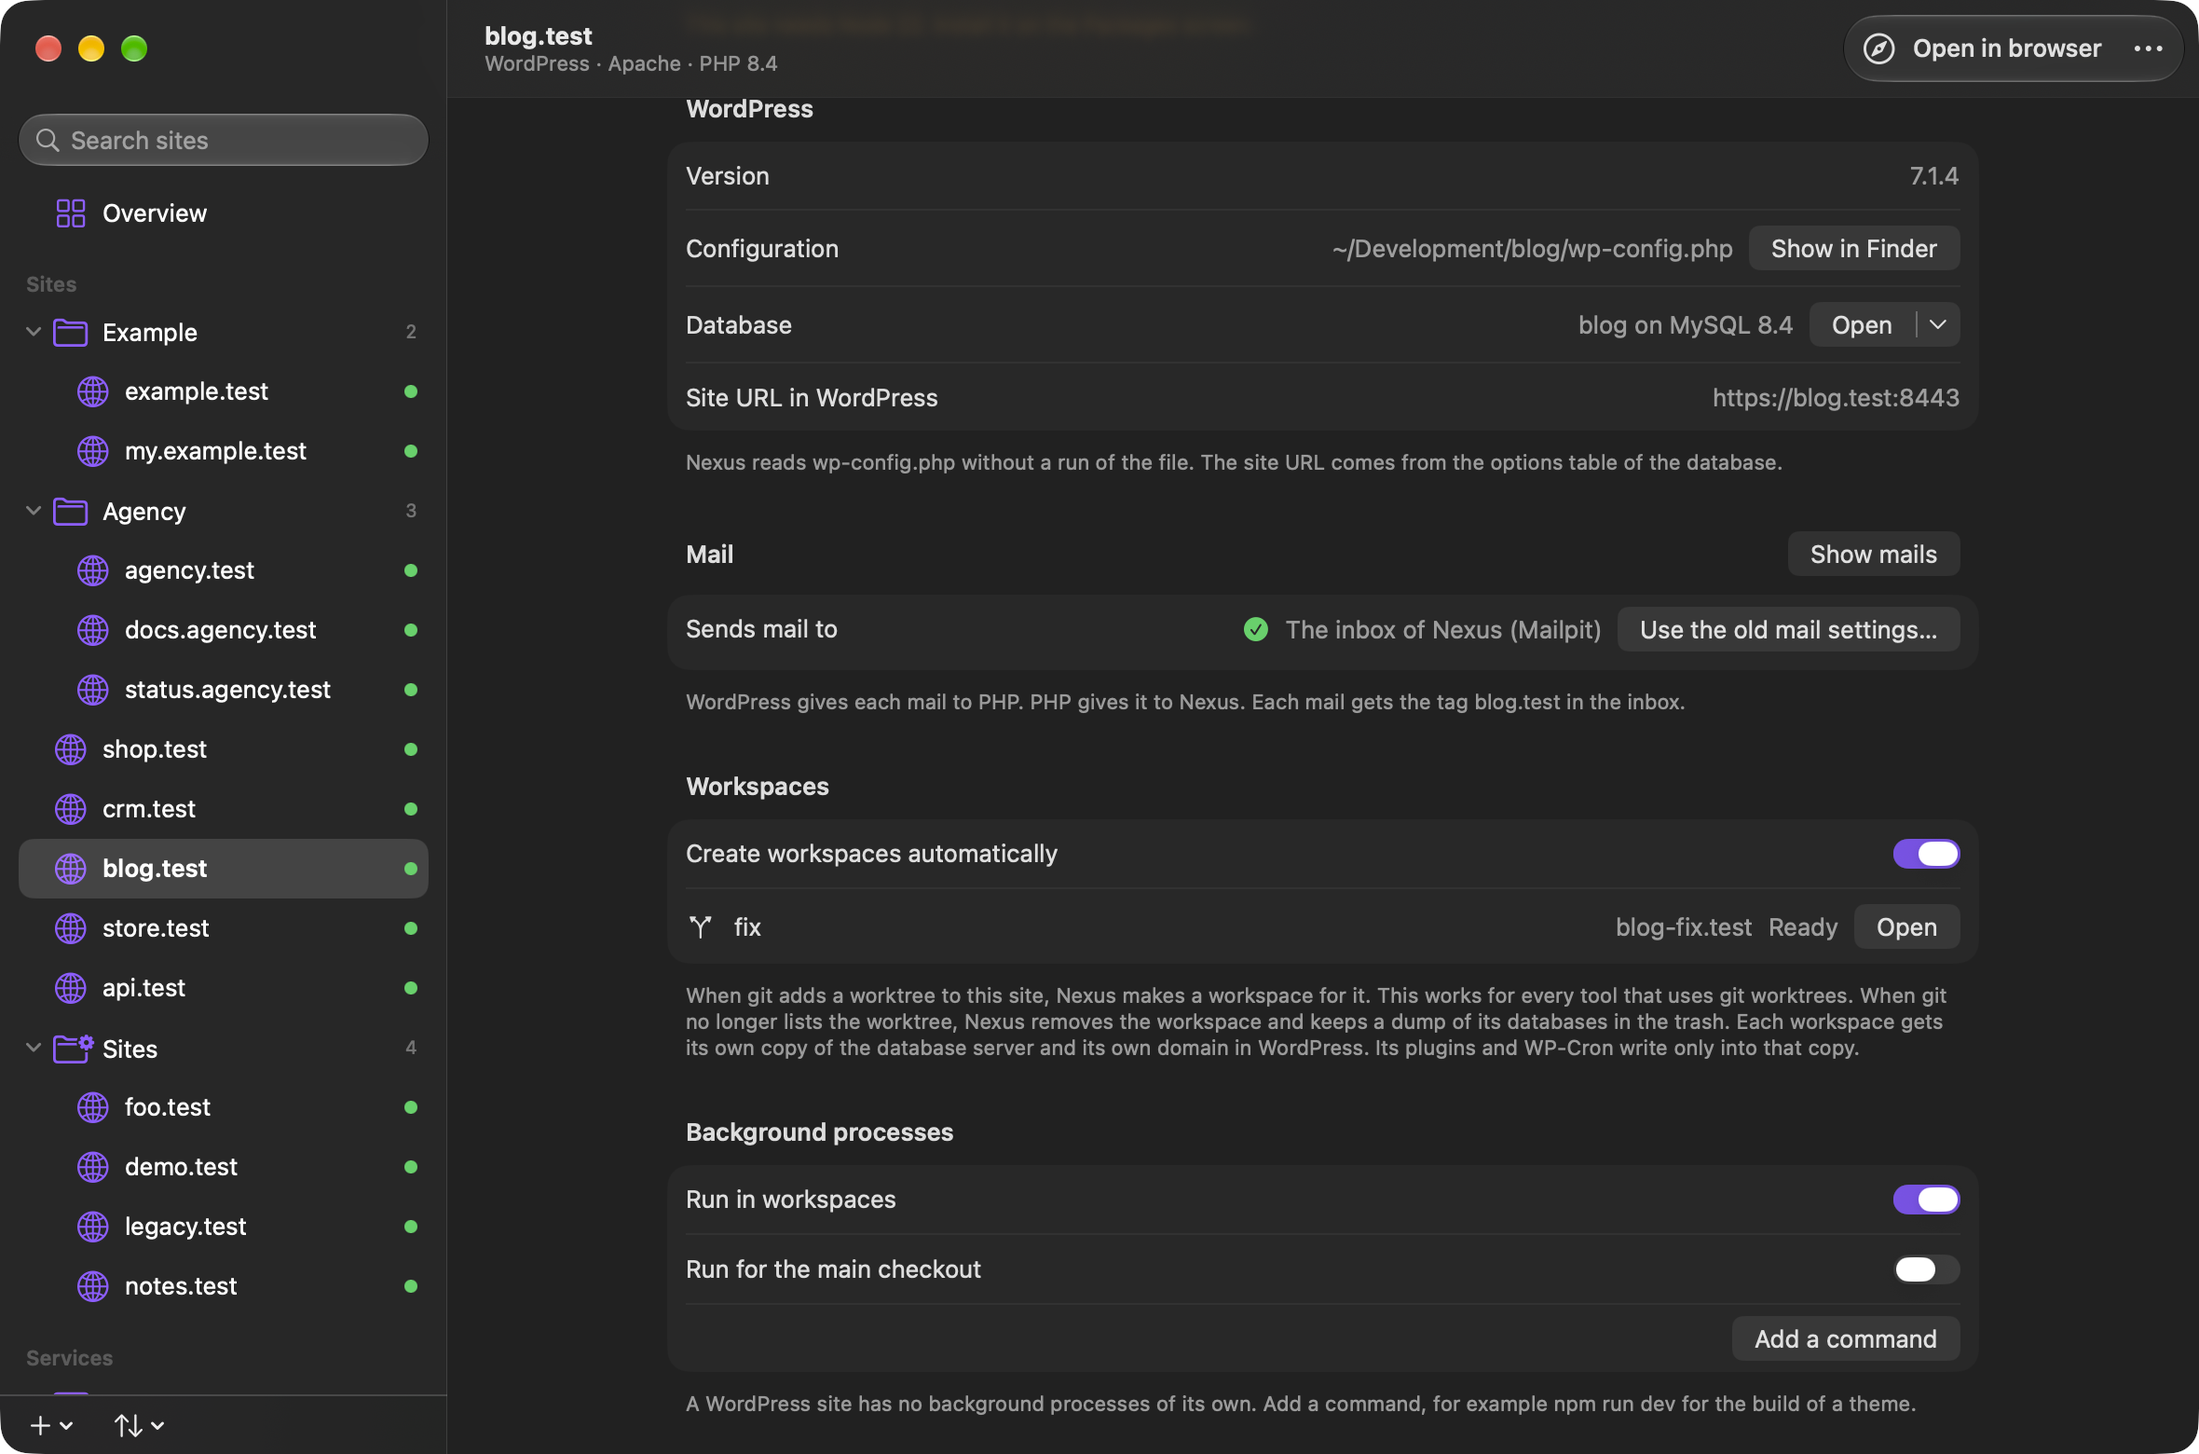
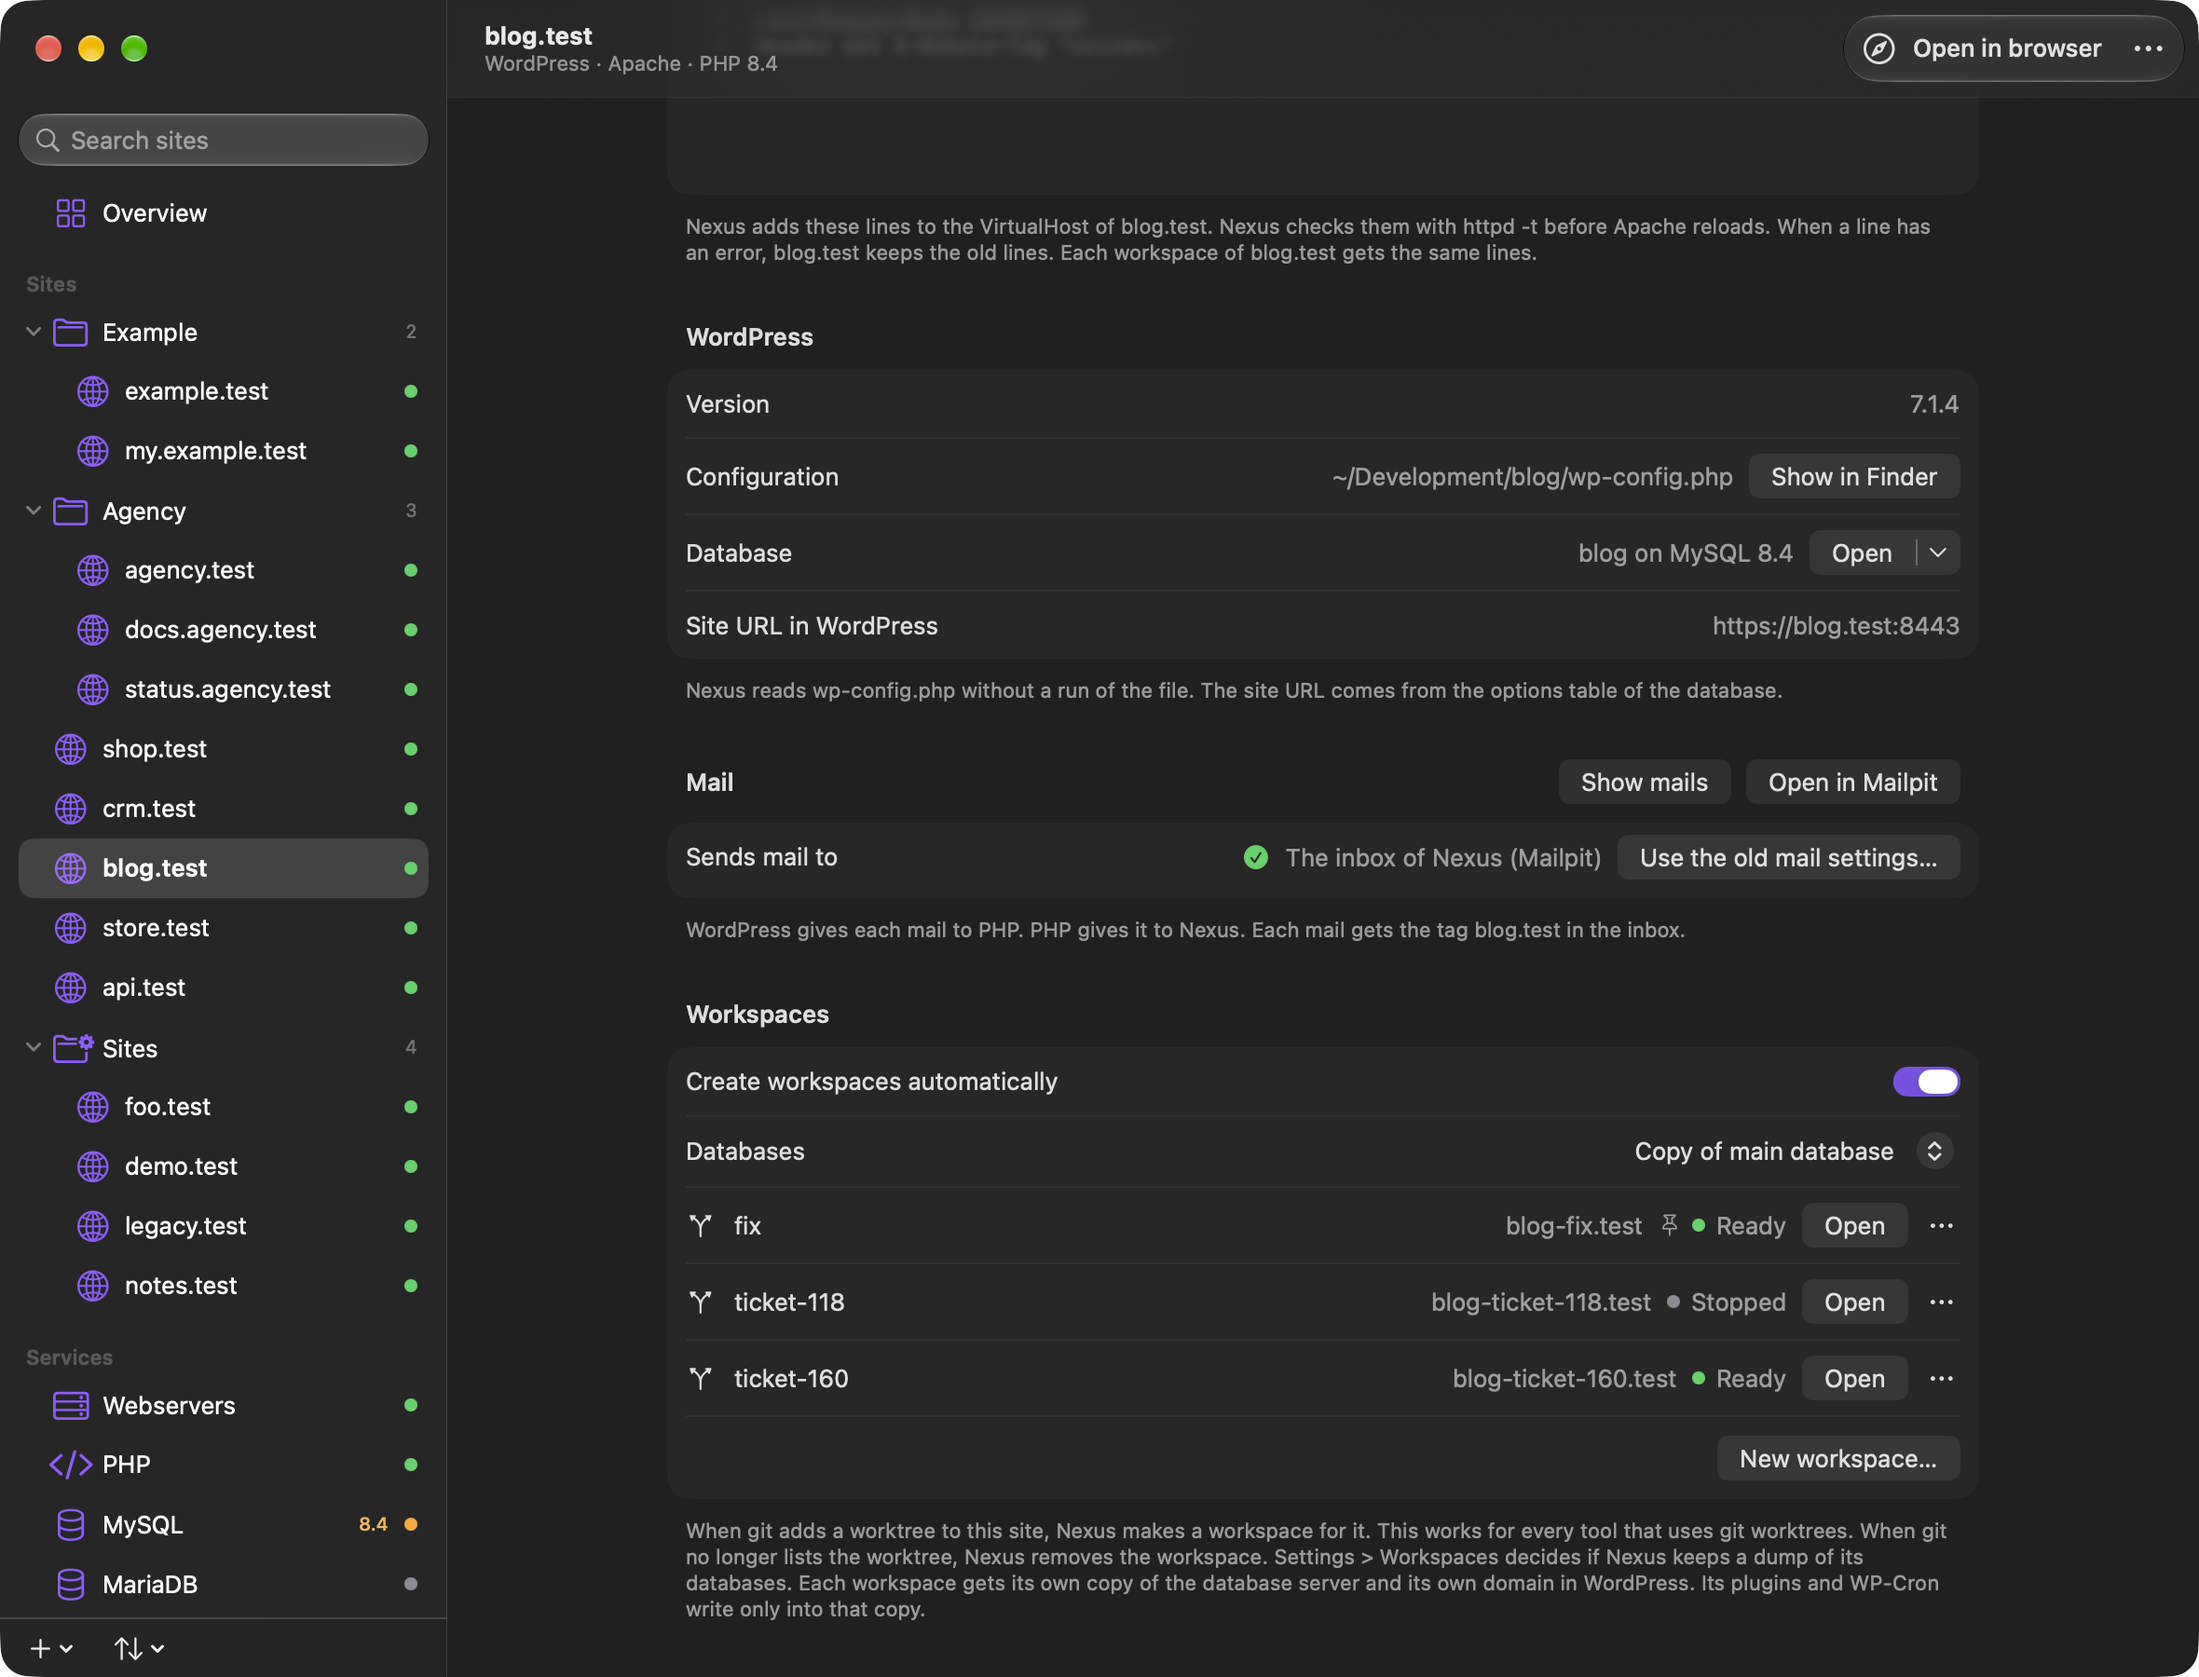
Replace the README screenshots that changed since 0.6.2
The Overview, the Site screen with its workspaces, the New site sheet and
the Packages screen get new 2x screenshots of the sample build. The Mail
screen did not change.

The sample port problem of MySQL 8.4 is now a Homebrew mysqld. It goes
through the same PortConflict path as a real conflict from nexusd, so its
text and its buttons follow the real rules. PortOwner gets a public init
for this. In sample mode a stop of a port holder only shows the start, as
the other sample actions do, and never sends a signal to a real process.

diff --git a/Nexus/Model/SampleData.swift b/Nexus/Model/SampleData.swift
@@ -660,20 +660,13 @@ extension AppModel {
                 version: "8.4.7",
                 health: .attention,
                 ports: [ServicePort(name: "Port", number: 3306)],
-                problem: ServiceProblem(
-                    summary: "Port in use",
-                    detail: "Port 3306 is in use by MAMP PRO (mysqld, process 812). Stop that app, or give the service another port.",
-                    portHolder: PortHolder(
-                        port: 3306,
-                        app: "MAMP PRO",
-                        process: "mysqld",
-                        processNumber: 812,
-                        path: "/Applications/MAMP/Library/bin/mysql80/bin/mysqld",
-                        suggestedPort: 13307,
-                        managerApp: "de.appsolute.mamppro",
-                        canStop: false
-                    )
-                ),
+                problem: ServiceProblem(PortConflict(
+                    service: "mysql-8.4",
+                    port: 3306,
+                    owner: PortOwner(pid: 812, command: "mysqld", executable: "/opt/homebrew/Cellar/mysql@8.4/8.4.7/bin/mysqld", mainPID: 812, mainProcessIsOwn: true),
+                    suggestedPort: 13307,
+                    portKey: "mysql-8.4"
+                )),
                 dataFolder: "~/Library/Application Support/Nexus/data/mysql-8.4",
                 account: DatabaseAccount(user: "root", password: ""),
                 log: [

diff --git a/Nexus/Model/ServiceInfo+App.swift b/Nexus/Model/ServiceInfo+App.swift
@@ -28,6 +28,12 @@ extension ServiceKind {
     }
 }
 
+extension ServiceProblem {
+    init(_ conflict: PortConflict) {
+        self.init(summary: "Port in use", detail: conflict.description, portHolder: PortHolder(conflict))
+    }
+}
+
 extension PortHolder {
     // nexusd cannot see a program of another user. So it has no owner then.
     init(_ conflict: PortConflict) {
@@ -101,7 +107,7 @@ extension ServiceVersion {
         case .stopped:
             if let conflict = info.portConflict {
                 health = .attention
-                problem = ServiceProblem(summary: "Port in use", detail: conflict.description, portHolder: PortHolder(conflict))
+                problem = ServiceProblem(conflict)
             }
         case .running(_, let since):
             health = .running

diff --git a/NexusKit/Sources/NexusSupervisor/PortInspector.swift b/NexusKit/Sources/NexusSupervisor/PortInspector.swift
@@ -12,6 +12,14 @@ public struct PortOwner: Codable, Sendable, Equatable {
     public var mainPID: Int32?
     public var mainProcessIsOwn: Bool?
 
+    public init(pid: Int32, command: String, executable: String?, mainPID: Int32? = nil, mainProcessIsOwn: Bool? = nil) {
+        self.pid = pid
+        self.command = command
+        self.executable = executable
+        self.mainPID = mainPID
+        self.mainProcessIsOwn = mainProcessIsOwn
+    }
+
     // These apps start their servers again. So only the app itself can stop them.
     public var managerBundleIdentifier: String? {
         switch application {

diff --git a/Nexus/Model/AppModel.swift b/Nexus/Model/AppModel.swift
@@ -816,6 +816,11 @@ final class AppModel {
     // A server that an earlier nexusd left behind belongs to "Nexus". This app must not quit itself
     // then.
     func stop(_ holder: PortHolder, andStart service: ServiceVersion) {
+        guard client != nil else {
+            setSampleRunning(true, service: service.id)
+            return
+        }
+
         Task {
             if let app = runningApp(of: holder) {
                 app.terminate()

diff --git a/README.md b/README.md
@@ -47,7 +47,7 @@
 
 ## 🌳 A workspace for each branch
 
-![The Site screen of a WordPress site with its database, its mail and the workspace of the branch fix](.github/wordpress-workspaces.png)
+![The Site screen of a WordPress site with its database, its mail and the workspaces of three branches](.github/wordpress-workspaces.png)
 
 In the folder of a site, make a workspace for a branch:
 
@@ -181,7 +181,7 @@ sent it. Read your mails in Nexus, or open the web inbox of Mailpit.
 
 ## 📦 The versions that you need
 
-![The Packages screen with the versions of nginx, Apache, PHP, MySQL and MariaDB](.github/packages.png)
+![The Packages screen with the automatic updates and the versions of nginx, Apache, PHP, MySQL and MariaDB](.github/packages.png)
 
 Install a version of PHP, Node or a database with one click. Updates in the same version line install
 by themselves, for example a security fix of PHP. Nexus also tells you when a version gets no more
